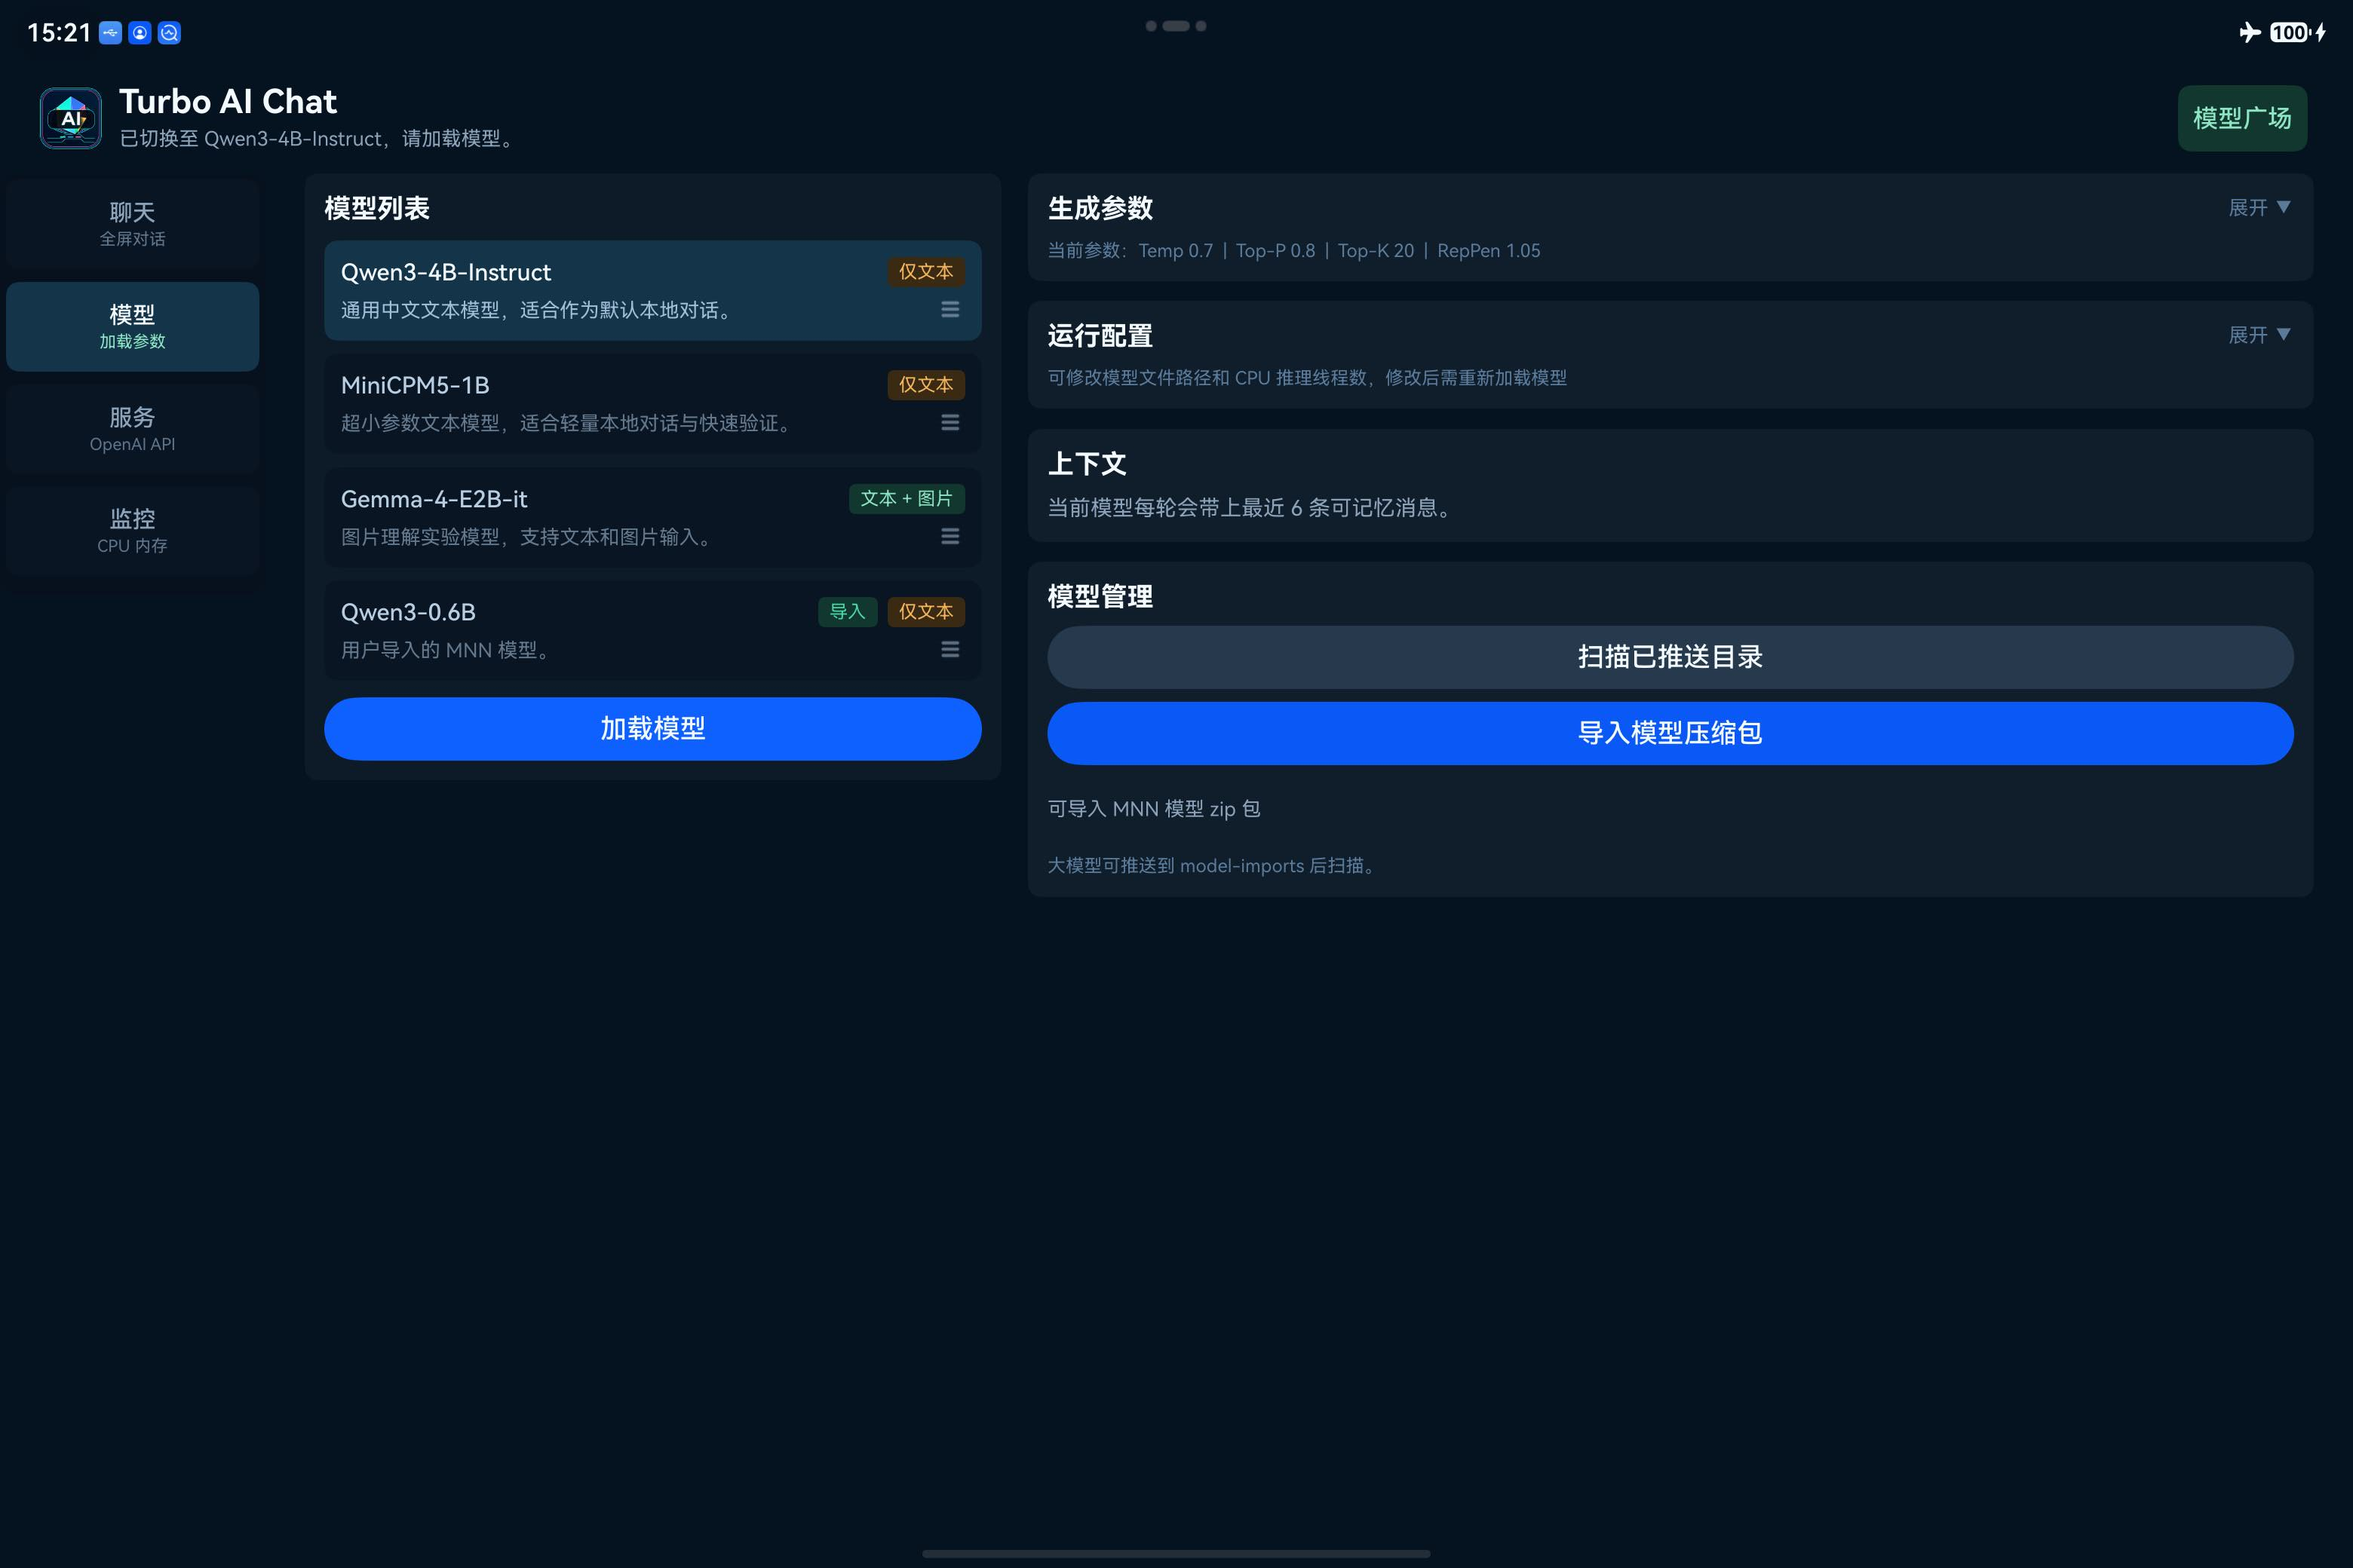
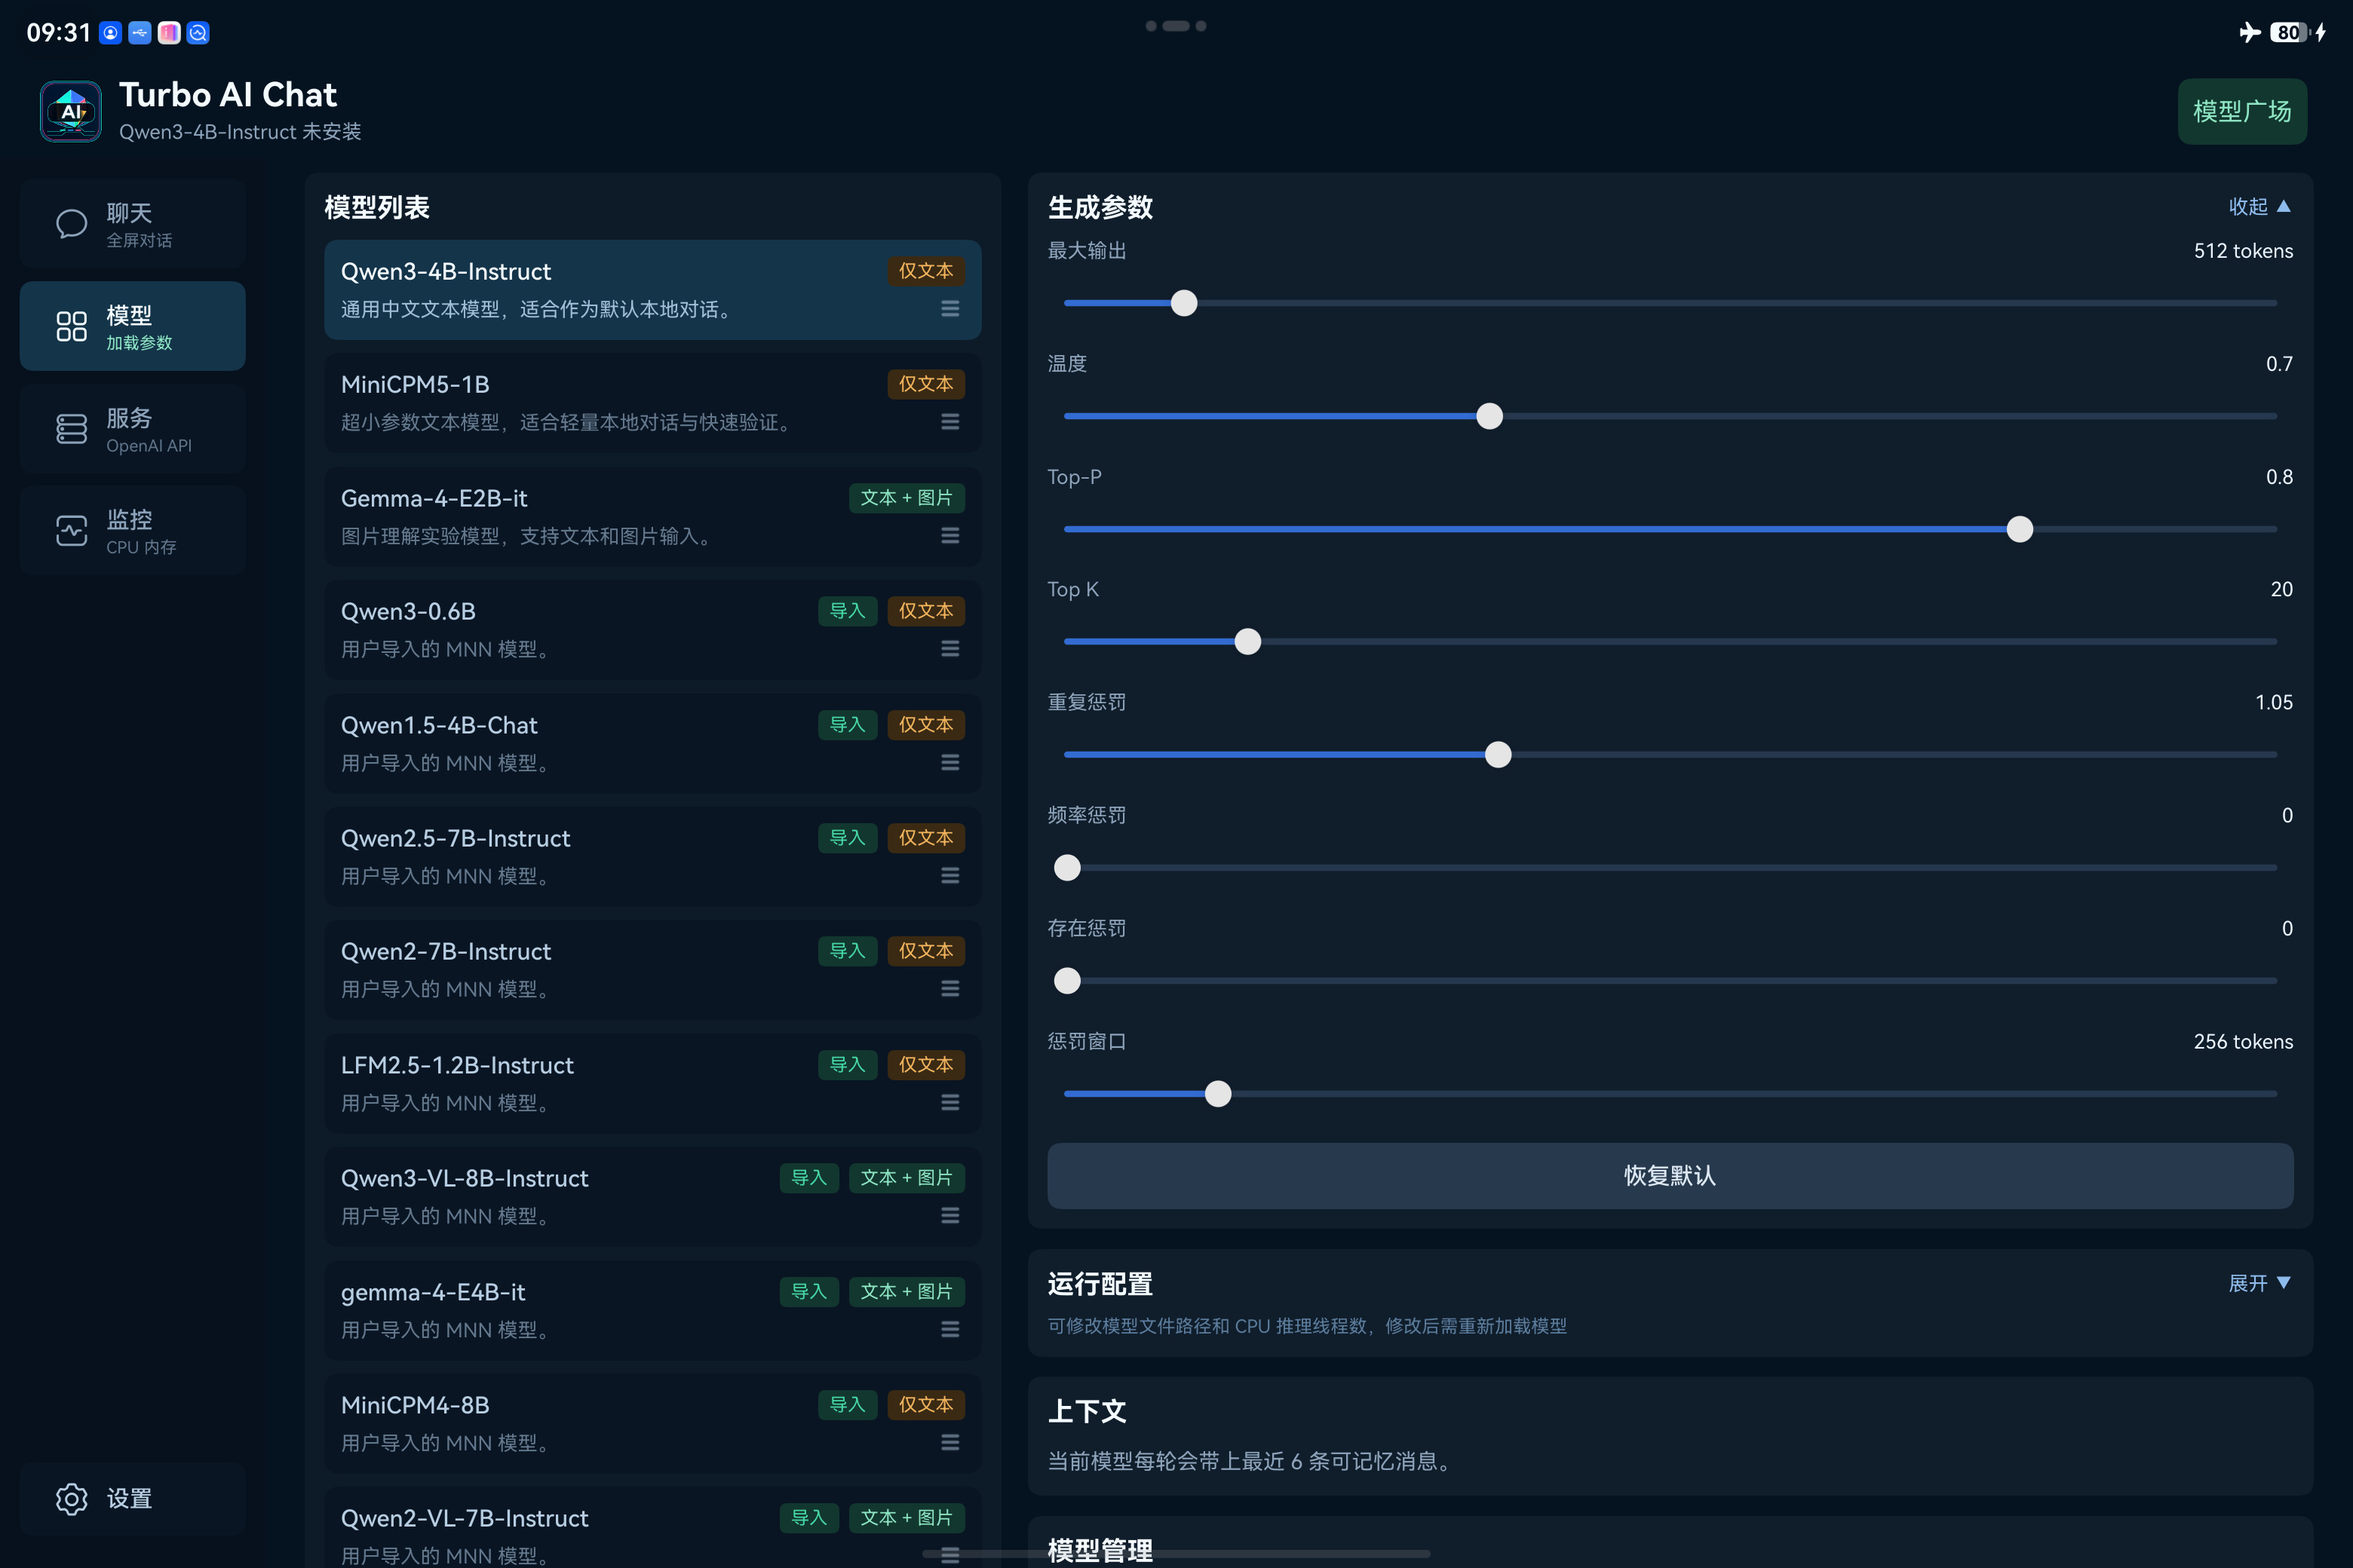
Refine navigation and settings controls
Add navigation icons and a theme-aware blurred mobile tab bar, with consistent spacing, selection colors, and dialog controls.

Restore folder selection on supported devices and keep the API service switch aligned with its actual running state.

diff --git a/README_EN.md b/README_EN.md
@@ -54,6 +54,11 @@ In the HarmonyOS ecosystem, on-device AI inference today largely depends on Andr
 
 ## Recent Highlights
 
+**Navigation and model import improvements (v1.12.0)**
+
+- Add icons to mobile navigation and sidebars, retaining descriptions in wide sidebars. Use a theme-aware blurred mobile navigation background with adjusted bottom content spacing.
+- Preserve key identifiers in short names for duplicate imports. Keep unrelated controls stable during directory scans and retain the current selection and edited parameters when no models are added.
+
 **Local model import improvements (v1.11.1)**
 
 - Import models by selecting a folder on supported devices, alongside ZIP import and pushed-directory scanning.
@@ -214,6 +219,8 @@ When adding an OpenAI-compatible provider in Cherry Studio, enter the displayed 
 - `POST /v1/chat/completions`
 - `POST /v1/responses`
 
+The phone bottom bar and narrow sidebar label this entry “API 服务” (API Service). The wide sidebar uses “服务” (Service) with the “OpenAI API” subtitle.
+
 The Service tab shows operational logs for server lifecycle, request paths, model parameters, response status, latency, and output size. It does not log API keys, prompts, or response text.
 
 Wide windows place service settings beside the API logs. Narrowing the window restores a single column without restarting an active server.
@@ -235,6 +242,7 @@ You can also sideload the HAP with [Xiaobai Debug Assistant](https://github.com/
 The recommended path is to install models from the in-app Model Gallery. Import local conversions by selecting a folder or zip; manual directory push remains a debugging fallback.
 
 - **Model Gallery**: refresh the online catalog and install preset or extended models from ModelScope; if refresh fails, the app keeps the last valid cache or its bundled catalog.
+- **Folder import**: select a complete MNN model directory through the system picker. The app copies and validates the files without changing the source directory. If the picker cannot open, retry or use zip import.
 - **Zip import**: useful for small or medium complete MNN model directories.
 - **Manual directory push**: useful for large models, offline debugging, or when zip import fails; push the directory and scan it from the Model tab.
 
@@ -242,7 +250,7 @@ The recommended path is to install models from the in-app Model Gallery. Import 
 
 Model Gallery downloads, folder selection, and zip import are the recommended approaches. Manual `hdc` push is kept as a debugging fallback.
 
-Folder import is shown only on devices supporting the system folder picker. Select one complete MNN model directory; the app copies it into its sandbox, validates it, and registers it without modifying the source. Available space is checked against the total file size.
+Folder import opens the system folder picker directly. Select one complete MNN model directory; the app copies it into its sandbox, validates it, and registers it without modifying the source. Available space is checked against the total file size. If the picker cannot open, retry or use zip import.
 
 Zip import checks space for the staging copy, but extraction needs additional space. Errors distinguish copying, extraction, validation, and manifest saving. There is no app-imposed 2GB limit; support on different system versions must be verified separately.
 

diff --git a/README.md b/README.md
@@ -56,6 +56,11 @@
 
 ## 近期重要改进
 
+**导航与模型导入改进（v1.12.0）**
+
+- 手机底部导航与宽窗口侧栏加入图标，宽侧栏保留副标题；手机导航采用随主题切换的毛玻璃背景，并调整底部内容避让。
+- 修复重复导入时短名称丢失关键标识的问题；扫描目录不再导致整页按钮闪动，没有新增模型时保留当前选择和参数编辑。
+
 **本地模型导入优化（v1.11.1）**
 
 - 支持在设备上选择文件夹导入模型，保留 ZIP 导入与已推送目录扫描。
@@ -216,6 +221,8 @@ PC 最大化：
 - `POST /v1/chat/completions`
 - `POST /v1/responses`
 
+手机底栏和窄侧栏的入口显示为“API 服务”；宽侧栏显示“服务”，并保留“OpenAI API”副标题。
+
 服务页会显示服务启停、请求路径、模型参数、响应状态、耗时和输出规模等运行日志，不记录 API Key、提示词或回答正文。
 
 宽窗口下，服务设置与 API 日志并排显示；缩窄窗口后恢复单栏，已启动的服务不会因布局切换而重启。
@@ -237,7 +244,7 @@ hdc install -r turbo-ai-chat-harmonyos-vX.Y.Z-signed.hap
 推荐优先使用 App 内模型广场安装模型；本地转换的模型可以选择文件夹或 zip 导入，手动推送目录作为调试备用。
 
 - **模型广场**：在模型页打开模型广场，可刷新在线目录并从 ModelScope 下载预置或扩展模型；网络失败时继续使用最近一次有效缓存或安装包内置目录。
-- **选择文件夹导入**：在支持系统文件夹选择的设备上，选择一个完整 MNN 模型目录。App 会复制文件到沙箱，校验后注册，不修改原目录；不支持的设备不显示该入口。
+- **选择文件夹导入**：通过系统选择器选择一个完整 MNN 模型目录。App 会复制文件到沙箱，校验后注册，不修改原目录；若无法打开选择器，可重试或改用压缩包导入。
 - **导入 zip**：选择结构完整的 MNN 模型目录压缩包。导入前检查暂存空间，解压仍需额外空间；失败提示区分复制、解压、校验与保存阶段。没有人为设置 2GB 大小上限，但不同系统版本的实际支持情况需分别验证。
 - **手动推送目录**：适合大模型、离线调试或 zip 导入失败时使用，推送后在模型页扫描注册。
 
